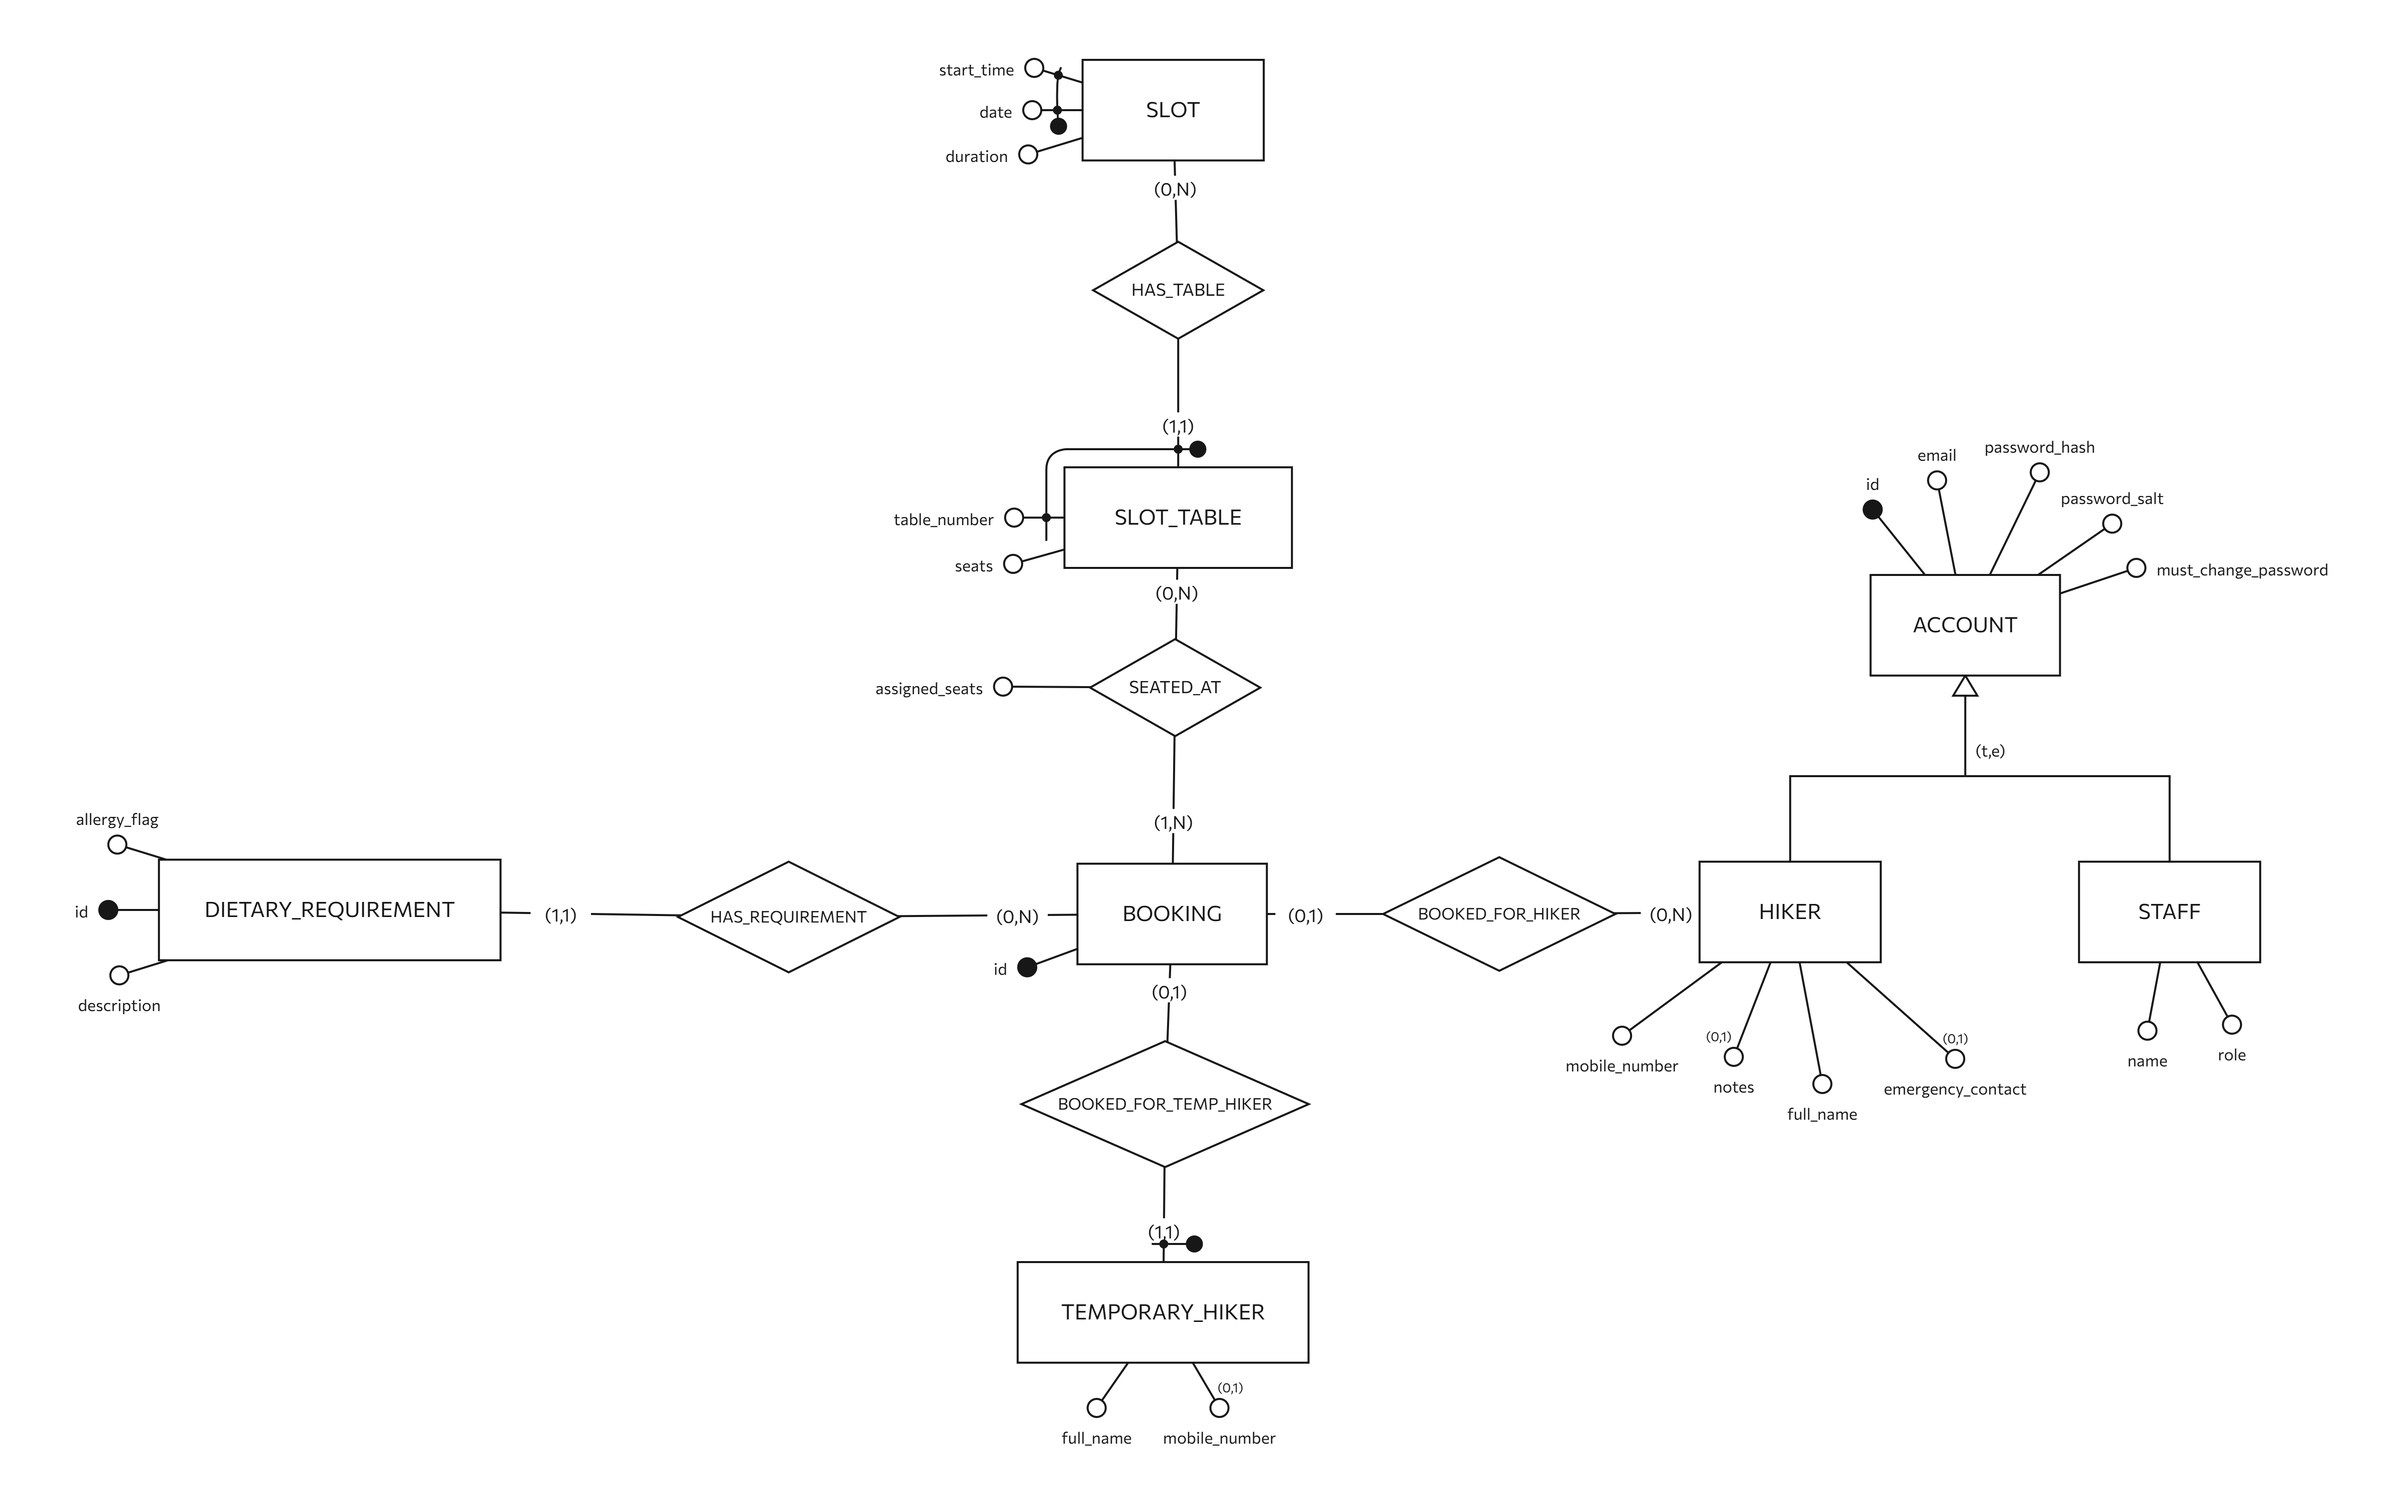
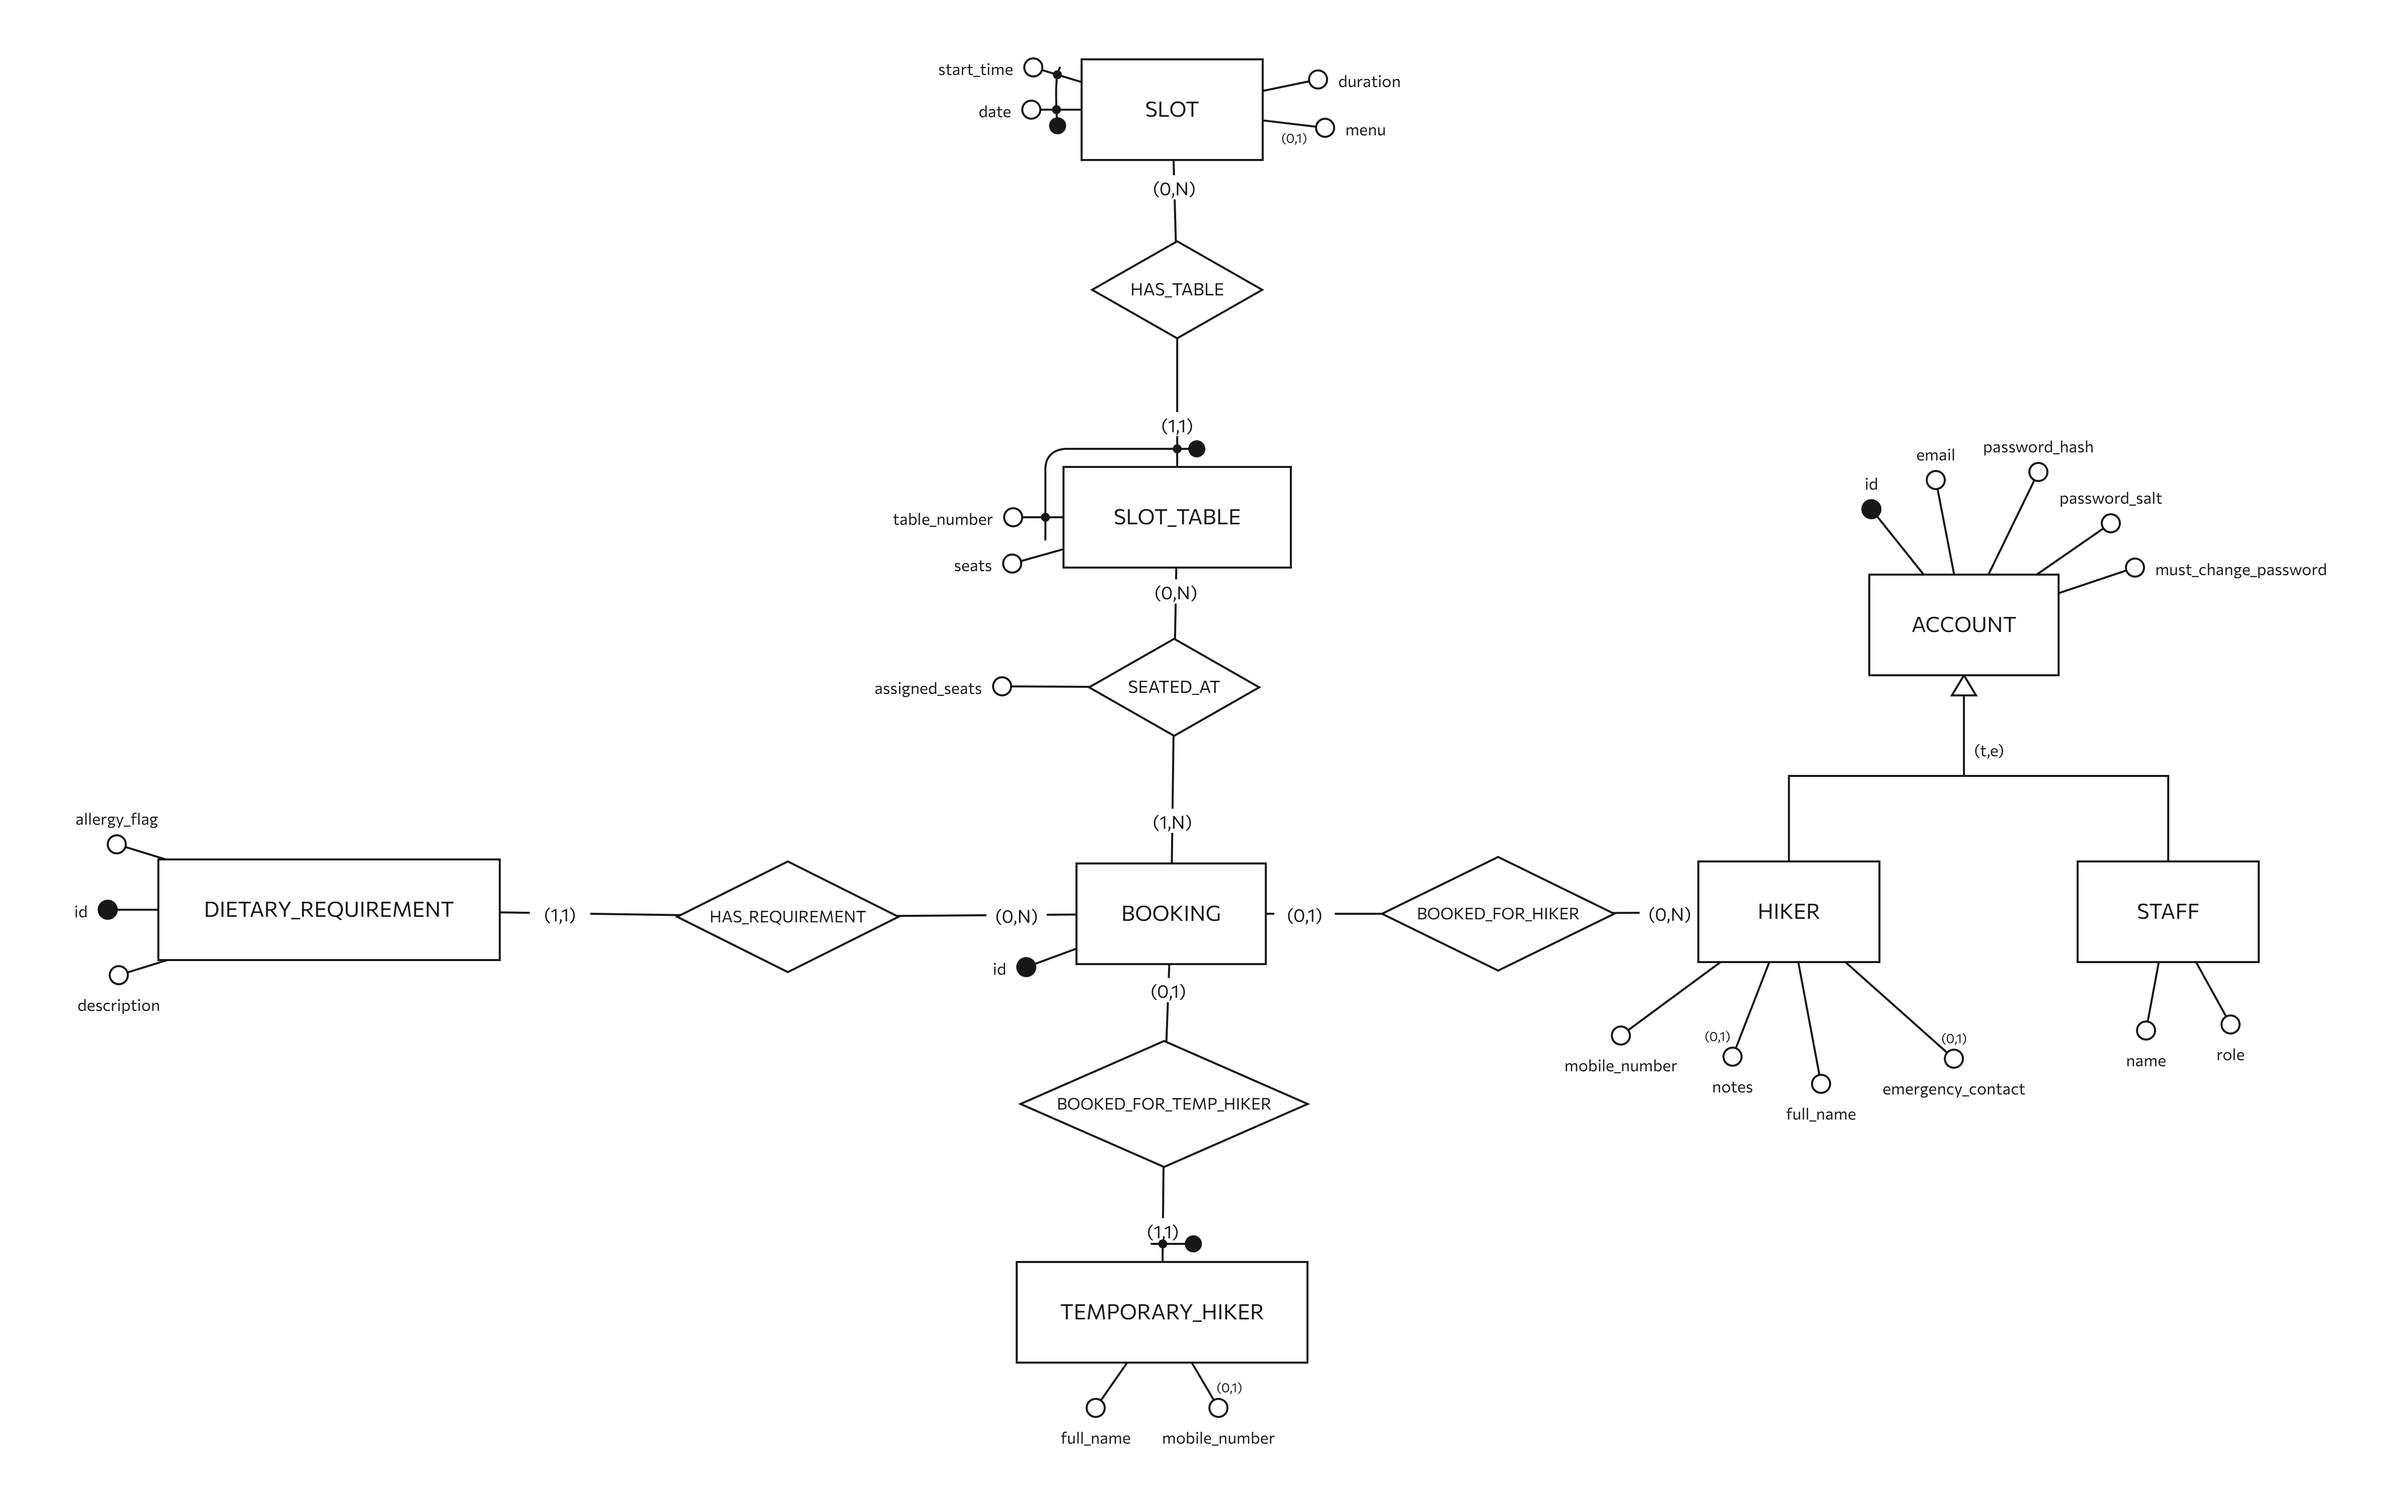
feat(db): add optional menu to slot

diff --git a/backend/src/dao/slot-dao.ts b/backend/src/dao/slot-dao.ts
@@ -25,11 +25,11 @@ export type SlotConfiguration = {
  * @returns The slot, or null if it does not exist.
  */
 export const getSlot = (date: string, start_time: string): Slot | null => {
-    const sql = "SELECT date, start_time, duration FROM slot WHERE date = ? AND start_time = ?";
+    const sql = "SELECT date, start_time, duration, menu FROM slot WHERE date = ? AND start_time = ?";
     const row = db
-        .prepare<[string, string], { date: string; start_time: string; duration: number }>(sql)
+        .prepare<[string, string], { date: string; start_time: string; duration: number; menu: string | null }>(sql)
         .get(date, start_time);
-    return row ? new Slot(row.date, row.start_time, row.duration) : null;
+    return row ? new Slot(row.date, row.start_time, row.duration, row.menu) : null;
 };
 
 /**
@@ -40,7 +40,7 @@ export const getSlot = (date: string, start_time: string): Slot | null => {
  */
 export const getAvailableSlotsByDate = (date: string): SlotAvailability[] => {
     const sql = `
-        SELECT s.date, s.start_time, s.duration,
+        SELECT s.date, s.start_time, s.duration, s.menu,
                COALESCE(SUM(st.seats), 0) AS total_seats,
                COALESCE(SUM(st.seats), 0) - COALESCE((
                    SELECT SUM(sa.assigned_seats)
@@ -55,12 +55,12 @@ export const getAvailableSlotsByDate = (date: string): SlotAvailability[] => {
         ORDER BY s.start_time`;
     const rows = db
         .prepare<[string], {
-            date: string; start_time: string; duration: number;
+            date: string; start_time: string; duration: number; menu: string | null;
             total_seats: number; available_seats: number;
         }>(sql)
         .all(date);
     return rows.map((r) => ({
-        slot: new Slot(r.date, r.start_time, r.duration),
+        slot: new Slot(r.date, r.start_time, r.duration, r.menu),
         total_seats: r.total_seats,
         available_seats: r.available_seats,
     }));
@@ -98,7 +98,7 @@ export const getSavedConfigurations = (
     to: string | null,
     limit: number
 ): SlotConfiguration[] => {
-    const sql = `SELECT date, start_time, duration
+    const sql = `SELECT date, start_time, duration, menu
                  FROM slot
                  WHERE (@from IS NULL OR date >= @from)
                    AND (@to IS NULL OR date <= @to)
@@ -107,11 +107,11 @@ export const getSavedConfigurations = (
     const rows = db
         .prepare<
             { from: string | null; to: string | null; limit: number },
-            { date: string; start_time: string; duration: number }
+            { date: string; start_time: string; duration: number; menu: string | null }
         >(sql)
         .all({ from, to, limit });
     return rows.map((r) => ({
-        slot: new Slot(r.date, r.start_time, r.duration),
+        slot: new Slot(r.date, r.start_time, r.duration, r.menu),
         tables: getSlotTables(r.date, r.start_time),
     }));
 };

diff --git a/backend/src/database/seed/slots.ts b/backend/src/database/seed/slots.ts
@@ -17,6 +17,34 @@ const STEP = 15;                         // start times on the quarter hour
 const MINUTES_PER_DAY = 24 * 60;
 const MAX_TABLES = 6;
 const TABLE_SIZES = [2, 4, 6, 8] as const;
+const MENU_PROBABILITY = 0.5;            // chance that a slot gets a menu (the others have none yet)
+
+/** Standard demo menus in Markdown: bold, italic, items and sub-items. */
+const STANDARD_MENUS = [
+`**Alpine Menu**
+- Barley soup
+- Polenta with mushrooms
+- *Apple strudel*`,
+
+`**Pizza Menu**
+- Margherita
+- Mountain pizza
+  - speck, brie and walnuts
+- *Tiramisu*`,
+
+`**Mountain Menu**
+- Starters
+  - Cured meats and cheese board
+- Main course
+  - Venison stew with polenta
+  - *Vegetarian*: spinach dumplings
+- Blueberry tart`,
+
+`**Breakfast**
+- Bread, butter and jam
+- Yogurt with muesli
+- *Coffee, tea or hot chocolate*`,
+] as const;
 
 /** Minutes from midnight as HH:MM. */
 const toTime = (minutes: number): string =>
@@ -28,7 +56,8 @@ const randomStep = (random: Random, min: number, max: number): number =>
 
 /**
  * Inserts random slots for the next DAYS days: 1..MAX_SLOTS_PER_DAY per day,
- * each with 1..MAX_TABLES tables of random size.
+ * each with 1..MAX_TABLES tables of random size and, with MENU_PROBABILITY,
+ * one of the STANDARD_MENUS (otherwise no menu).
  * @param db The database being seeded, inside the reset transaction.
  * @param random Source of randomness in [0, 1), injectable for testing.
  * @param today The day the slots are relative to (injectable for testing).
@@ -38,8 +67,8 @@ export const insertRandomSlots = (
     random: Random = Math.random,
     today: DateTime = DateTime.now()
 ): void => {
-    const insertSlot = db.prepare<[string, string, number]>(
-        "INSERT INTO slot (date, start_time, duration) VALUES (?, ?, ?)");
+    const insertSlot = db.prepare<[string, string, number, string | null]>(
+        "INSERT INTO slot (date, start_time, duration, menu) VALUES (?, ?, ?, ?)");
     const insertTable = db.prepare<[string, string, number, number]>(
         "INSERT INTO slot_table (slot_date, slot_start_time, table_number, seats) VALUES (?, ?, ?, ?)");
 
@@ -54,7 +83,8 @@ export const insertRandomSlots = (
             if (start + duration >= MINUTES_PER_DAY) break;   // would end after 23:59
 
             const start_time = toTime(start);
-            insertSlot.run(date, start_time, duration);
+            const menu = random() < MENU_PROBABILITY ? pickOne(random, STANDARD_MENUS) : null;
+            insertSlot.run(date, start_time, duration, menu);
             const tables = randomInt(random, 1, MAX_TABLES);
             for (let n = 1; n <= tables; n++) {
                 insertTable.run(date, start_time, n, pickOne(random, TABLE_SIZES));

diff --git a/backend/src/models/entities/slot.ts b/backend/src/models/entities/slot.ts
@@ -2,10 +2,12 @@ export class Slot {
     public date: string;        // YYYY-MM-DD
     public start_time: string;  // HH:MM
     public duration: number;
+    public menu: string | null;
 
-    constructor(date: string, start_time: string, duration: number) {
+    constructor(date: string, start_time: string, duration: number, menu: string | null = null) {
         this.date = date;
         this.start_time = start_time;
         this.duration = duration;
+        this.menu = menu;
     }
 }

diff --git a/docs/database.md b/docs/database.md
@@ -17,7 +17,7 @@ Primary keys in **bold**, `*` = nullable.
 - password_reset_token(**token_hash**, account_id → account, created_at, expires_at)
 - hiker(**account_id** → account, full_name, mobile_number, notes\*, emergency_contact\*)
 - staff(**account_id** → account, name, role)
-- slot(**date**, **start_time**, duration)
+- slot(**date**, **start_time**, duration, menu\*)
 - slot_table(**(slot_date, slot_start_time)** → slot, **table_number**, seats)
 - booking(**id**, hiker_id\* → hiker)
 - temporary_hiker(**booking_id** → booking, full_name, mobile_number\*)
@@ -32,6 +32,7 @@ Primary keys in **bold**, `*` = nullable.
 - Every account is either a hiker or a staff member, never both: exactly one row in `hiker` or `staff` per `account` (generalization (t,e), checked by the backend).
 - `staff.role` ∈ {`employee`, `warden`}; a warden can also perform employee functions.
 - `slot.duration` is expressed in minutes.
+- `slot.menu` is free text in Markdown (bold, italic, nested lists); NULL means the menu is not defined yet, the empty string is not allowed.
 - All `seated_at` rows of the same booking refer to the same slot.
 - For each `slot_table`: SUM(`assigned_seats`) ≤ `seats`.
 - `assigned_seats` ≥ 1.
